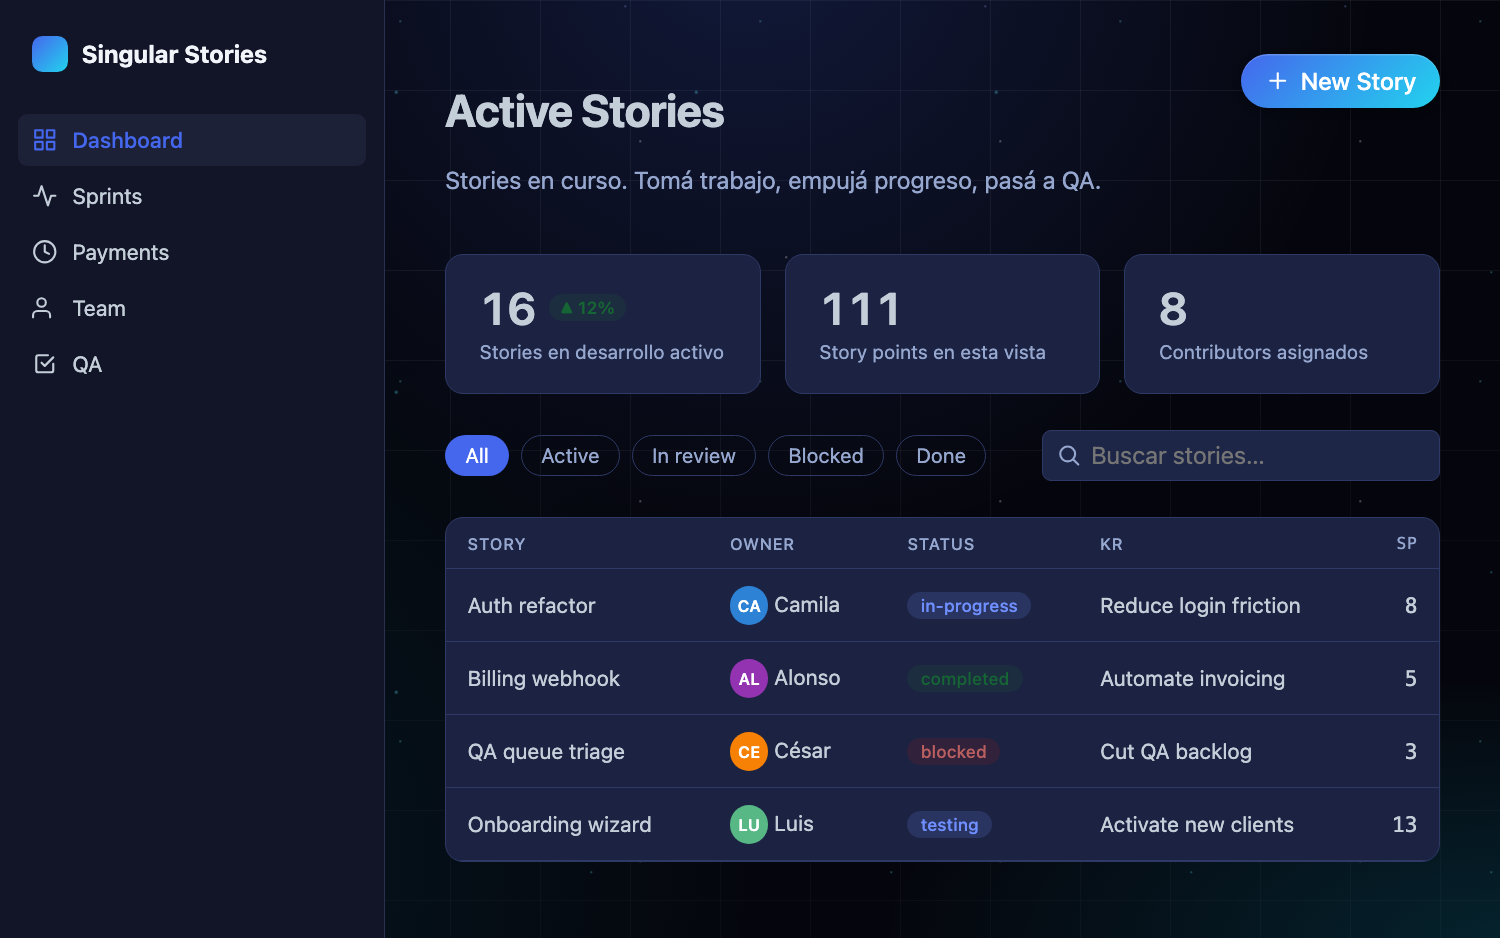
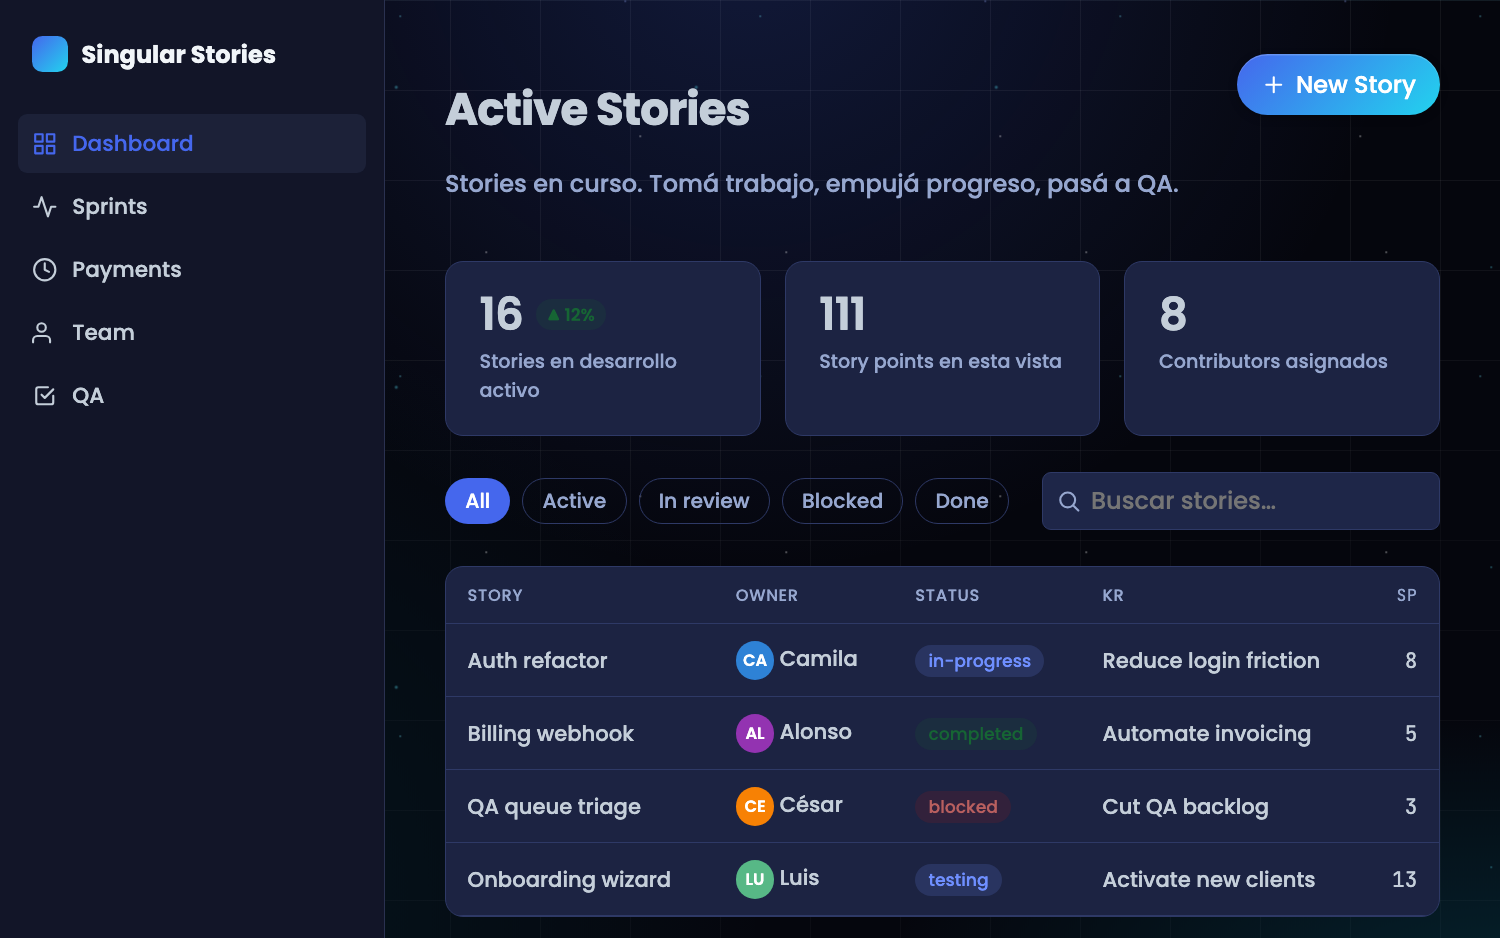
fix: web-app demo sin púrpura + PLAN al día (un solo primary azul/cyan)
- el inline autocontenido de web-app/demo.html tenía la escala púrpura vieja
  (residuo de los demos autocontenidos del equipo, copiados pre-cambio de color) → cyan
- PLAN D1 actualizado: dual rojo/azul → un solo primary azul/cyan

diff --git a/surfaces/web-app/demo.html b/surfaces/web-app/demo.html
@@ -117,16 +117,17 @@
   --singular-primary-700: #0E278B; --singular-primary-800: #091A5D;
   --singular-primary-900: #050D2E;
 
-  --singular-secondary: #867BEA;
-  --singular-secondary-100: #D7D3F8; --singular-secondary-200: #AEA7F1;
-  --singular-secondary-300: #867BEA; --singular-secondary-400: #5646E8;
-  --singular-secondary-500: #4231DF; --singular-secondary-600: #2A1CB0;
-  --singular-secondary-700: #201584; --singular-secondary-800: #150E58;
-  --singular-secondary-900: #0B072C;
+  /* Secundario = cyan (un solo lenguaje de color para todo Singular) */
+  --singular-secondary: #06b6d4;
+  --singular-secondary-100: #CFF6FE; --singular-secondary-200: #A5EEFD;
+  --singular-secondary-300: #67E8F9; --singular-secondary-400: #22D3EE;
+  --singular-secondary-500: #06B6D4; --singular-secondary-600: #0891B2;
+  --singular-secondary-700: #0E7490; --singular-secondary-800: #155E75;
+  --singular-secondary-900: #164E63;
 
-  --singular-coral: #1741E8; --singular-cyan: #0D9488; --singular-purple: #7C3AED;
-  --singular-blue: #1741E8;  --singular-yellow: #D97706; --singular-red: #DC2626;
-  --singular-green: #16A34A;
+  --singular-coral: #22d3ee; --singular-cyan: #06b6d4; --singular-purple: #6366f1;
+  --singular-blue: #3B82F6;  --singular-yellow: #f59e0b; --singular-red: #f87171;
+  --singular-green: #10b981;
 
   /* ── Interactive ── */
   --interactive: #1741e8;        --interactive-hover: #1234ba;

diff --git a/PLAN.md b/PLAN.md
@@ -11,7 +11,7 @@
 
 | # | Decisión | Detalle |
 |---|---|---|
-| D1 | **Primary dual por superficie** | 🔴 Rojo `#d4513b` = marca pública / marketing (website, landing). 🔵 Azul `#4567ed` = producto / app (web-app). Ambos son "de marca", con roles definidos. No es contradicción: es un *brand profile* por superficie. |
+| D1 | **Un solo primary azul/cyan** | 🔵 Azul `#4567ed` + gradiente **azul→cyan** + acentos cyan, para **todas** las superficies. App y web difieren solo en la *surface* (navy / negro), no en el color. (El rojo y el dual quedaron descartados — evolución: rojo → cyan → un solo azul/cyan.) |
 | D2 | **Arquitectura: núcleo + perfiles** | Una skill madre con un **core de marca** (tokens, voz, a11y, motion) + **sub-perfiles por superficie**. `singular-design-app-v2` se **incrusta** como perfil `web-app` (sigue leyendo el `globals.css` de Stories como su verdad). `.sds-*` se **deprecan como sistema de clases**, pero se rescata su andamiaje (`references/`: audit-checklist, decision-tree, patterns). |
 | D3 | **Superficies v1** | Las 4: `website-landing`, `web-app`, `slides-presentations`, `social-email`. |
 | D4 | **Arranque** | Este documento maestro primero; luego ejecución paso a paso. |
